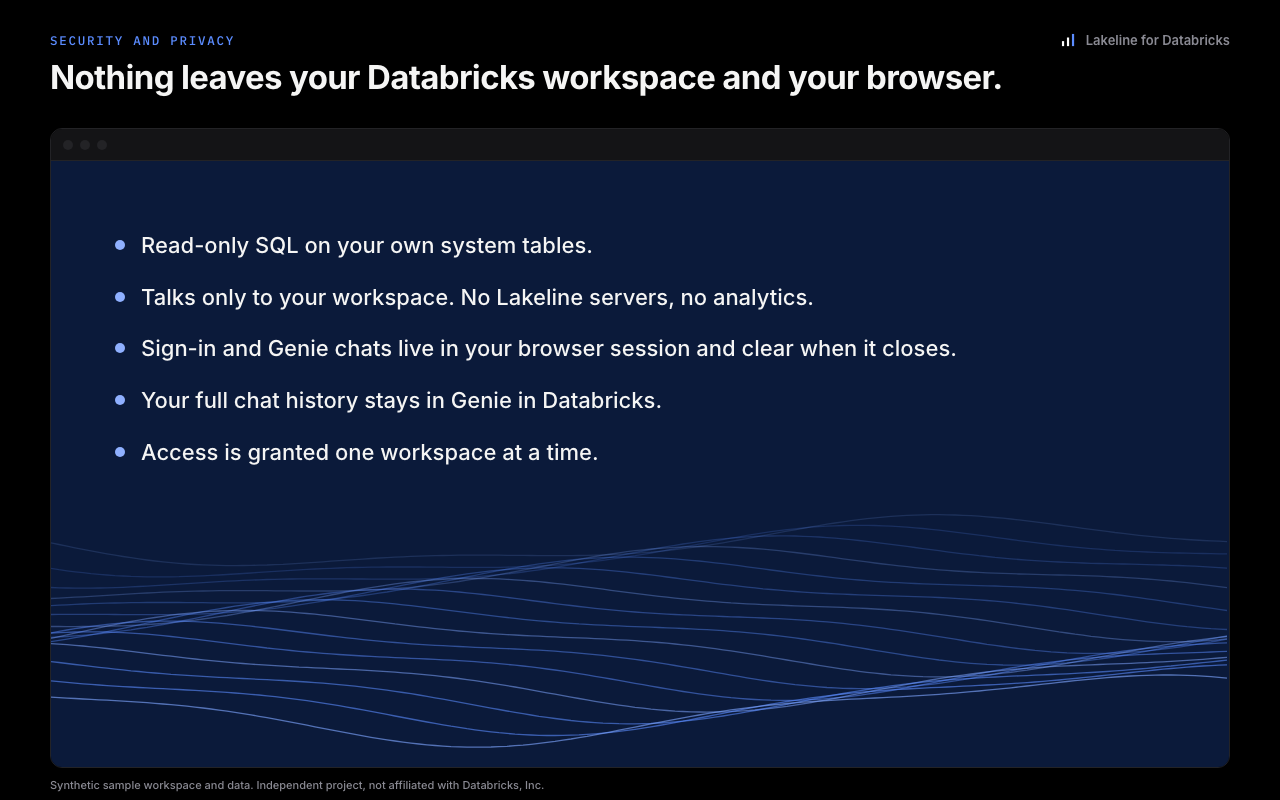
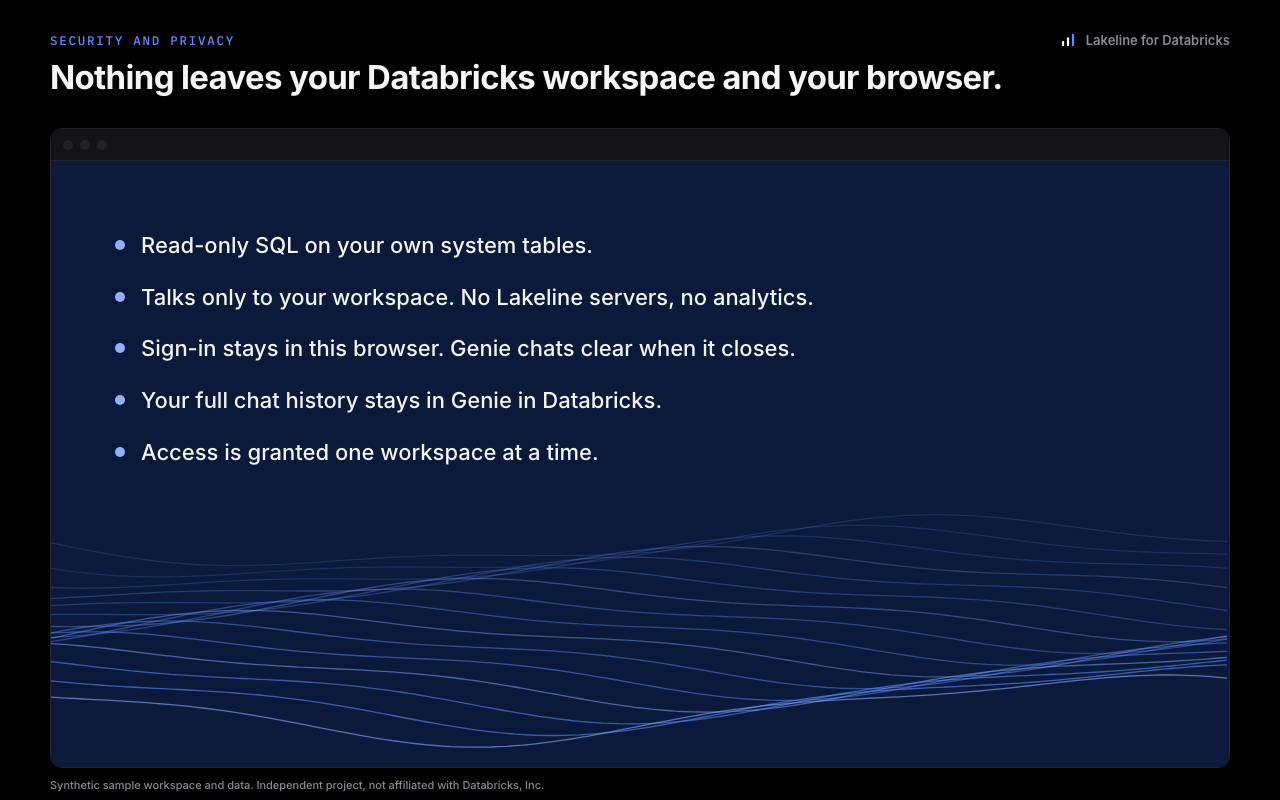
Launch video and privacy card: fit 0.1.2 layouts, soften the session claim
- Security headline at 58 px so the longer "Databricks workspace" line
  fits on one line instead of running off the right edge.
- Colors scene: 0.1.2's popup is taller (sidebar option and preview), so
  the panel is drawn smaller to show the URL through the save status at
  the same on-screen height.
- "Sign-in and Genie chats live in your browser session and clear when it
  closes" overstated it: a token saved with "Remember on this computer"
  stays on the device. Now "Sign-in stays in this browser. Genie chats
  clear when it closes." in the video, the storyboard and the store
  privacy card (screenshot-dark-5 rebuilt; the other images unchanged).

Changed region(s): [[0.1875, 0.4062, 0.75, 0.4688]]

diff --git a/video/composer/scenes/mg.js b/video/composer/scenes/mg.js
@@ -134,7 +134,7 @@ export function reveal(ctx, { t0, t1 }) {
 export const SECURITY_POINTS = [
   ['database', 'Read-only SQL on your own system tables.'],
   ['route', 'Talks only to your workspace, with no Lakeline servers or analytics.'],
-  ['session', 'Sign-in and Genie chats live in your browser session and clear when it closes.'],
+  ['session', 'Sign-in stays in this browser. Genie chats clear when it closes.'],
   ['history', 'Your full chat history stays in Genie in Databricks.'],
   ['key', 'Access granted one workspace at a time.'],
 ];
@@ -143,7 +143,7 @@ export function security(ctx, { t0, t1 }) {
   const layer = el('div', 'layer', ctx.root);
   const eb = el('div', 'eyebrow abs', layer, { left: '120px', top: '112px', fontSize: '18px', color: '#8FB0FF' });
   eb.textContent = 'Security and privacy';
-  const head = kinetic(layer, 'Nothing leaves your Databricks workspace and your browser.', { size: 66, stagger: 0.05, dur: 0.9, tracking: -0.03, style: { left: '120px', top: '150px' } });
+  const head = kinetic(layer, 'Nothing leaves your Databricks workspace and your browser.', { size: 58, stagger: 0.05, dur: 0.9, tracking: -0.03, style: { left: '120px', top: '150px' } });
   const rows = SECURITY_POINTS.map(([icon, text], i) => {
     const y = 318 + i * 116;
     const row = el('div', 'abs', layer, { left: '120px', top: y + 'px', width: '1380px', height: '116px' });

diff --git a/video/composer/scenes/s11-colors.js b/video/composer/scenes/s11-colors.js
@@ -80,7 +80,12 @@ export default function build(ctx, { n, t0, t1 }) {
   const split = popStates.findIndex((st) => WS.indexOf('stage') >= 0 && POP.stage.includes(st));
   const prodPart = split > 0 ? [popStates.slice(0, split), popSched.slice(0, split)] : [popStates, popSched];
   const stagePart = split > 0 ? [popStates.slice(split), popSched.slice(split).map((x, i) => Object.assign({}, x, { i, t: i === 0 ? -1e9 : x.t }))] : null;
-  const opts = (open, close) => ({ open, close, maxH: span ? Math.min(600, span.h + 24) : 600, focusFor: () => span });
+  // Show the URL through the save status; a taller panel is drawn smaller, so it never takes more of
+  // the frame than 600 CSS px at 1.4×.
+  const opts = (open, close) => {
+    const maxH = span ? span.h + 24 : 600;
+    return { open, close, maxH, scale: 1.4 * Math.min(1, 600 / maxH), focusFor: () => span };
+  };
   pop = prodPart[0].length ? popup(sc, win, prodPart[0], prodPart[1], opts(tOpenProd, closeProd)) : null;
   const popStage = stagePart && stagePart[0].length ? popup(sc, win, stagePart[0], stagePart[1], opts(tOpenStage + PACE.click, closeStage)) : null;
   click(tRed, swatch(POP.prod[0], 'red', 0), 'Red preset');

diff --git a/notes/VIDEO.md b/notes/VIDEO.md
@@ -59,7 +59,7 @@ Then they ask Genie, switching workspaces and agents. The run monitor catches a 
 | 9 | 62.0–86.0 | Ask Genie: work while you wait | dark | Why a side panel matters: you keep working while Genie answers.<br>(a) 62–67: prod workspace, dark, with the side panel docked. Ask "Which jobs drove last week's compute increase?" and the panel shows Genie is working.<br>(b) 67–71: the user switches to a DIFFERENT tab, a neutral, synthetic video player page (a recorded tech talk; no YouTube or other brand UI or logos). The side panel stays open beside it, because Chrome keeps it across tabs. Caption: "Ask Genie, then watch a video or get other work done."<br>(c) 71–75: still on the video tab, the answer lands in the side panel (Markdown + bar chart) with a subtle attention cue. Caption: "Your answer is waiting in the side panel."<br>(d) 75–79: the user opens another tab with a doc they're writing (a neutral, synthetic doc editor, "Weekly cost review"; no Google Docs or other brand UI). In the side panel they use the real ⋯ menu, Copy answer then Copy table, and paste into the doc. The pasted content is exactly what the real copy actions produced. Caption: "Copy answers straight into your doc."<br>(e) 79–82: switch Genie Agent "Platform ops" → "Revenue analytics"; ask; KPI tiles or bars.<br>(f) 82–86: switch workspace prod → analytics. The agent list changes; ask; line chart. Caption: "Switch workspaces and Genie Agents without leaving your work." |
 | 10 | 86.0–94.0 | Run monitor | dark | Floating monitor window: running and failed runs, warehouses, clusters. A failed `customer_360_refresh` run and its desktop notification (rendered by the composer in the house style from the real notification text). Caption: "A run fails, you know." |
 | 11 | 94.0–104.0 | Workspace colors | light | The problem, then the fix.<br>(a) 94–97: three tabs (dev, stage, prod) with identical default top bars. Caption: "Dev, stage, prod. They all look the same."<br>(b) 97–100: Workspace colors in the popup: pick any color per workspace (e.g. dev green, stage amber, prod red) with the picker and presets.<br>(c) 100–104: switching between the three tabs, each top bar in its own color. Caption: "Pick any color. Know where you are at a glance." |
-| 12 | 104.0–112.0 | Security and privacy | MG navy panel | "Nothing leaves your Databricks workspace and your browser." Points: read-only SQL on your own system tables; talks only to your workspace, with no Lakeline servers or analytics; sign-in and Genie chats live in your browser session and clear when it closes; your full chat history stays in Genie in Databricks; access granted one workspace at a time. |
+| 12 | 104.0–112.0 | Security and privacy | MG navy panel | "Nothing leaves your Databricks workspace and your browser." Points: read-only SQL on your own system tables; talks only to your workspace, with no Lakeline servers or analytics; sign-in stays in this browser and Genie chats clear when it closes; your full chat history stays in Genie in Databricks; access granted one workspace at a time. |
 | 13 | 112.0–116.0 | CTA | MG | Icon, "Lakeline for Databricks", "Add to Chrome", small line "Independent project; not affiliated with Databricks, Inc." Music resolves; tail to about 118 s. |
 
 ## Framing rules (review feedback: the browser looked small and far away)
